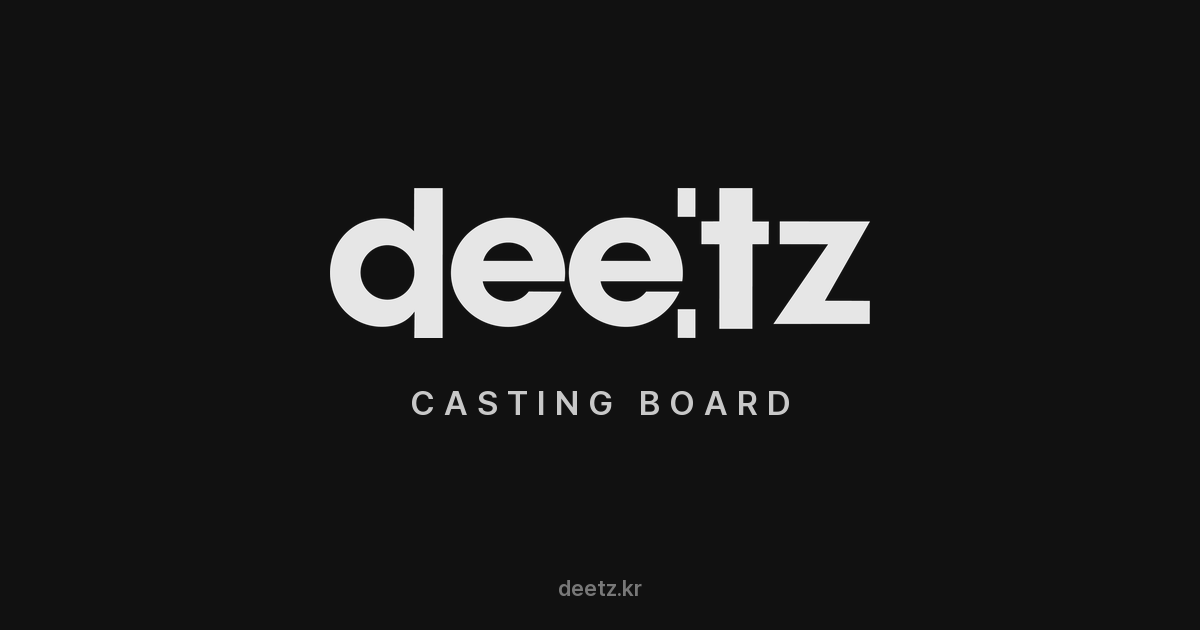
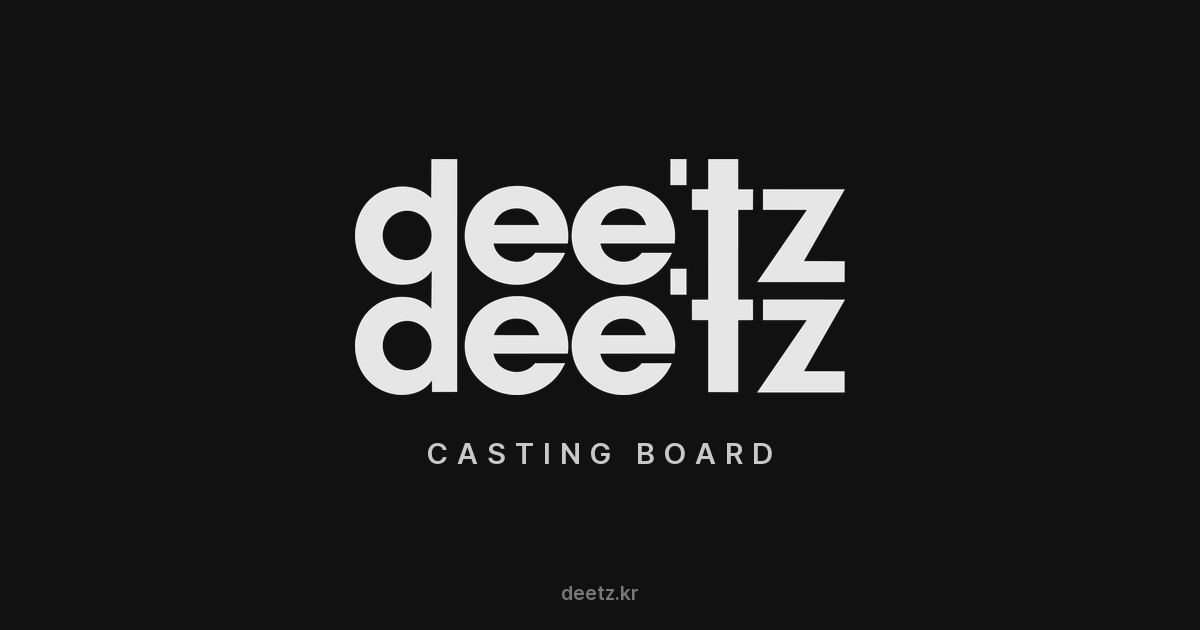
fix(casting): OG 이미지에 정식 2단 로고 사용, 공유 설명 'deetz 캐스팅보드' 고정 (#213)
deetz 로고는 dee'tz 2단 적층이 정식이라 OG 이미지를 원본 로고로 다시 만들되, 카카오톡 정사각 크롭(중앙 630px) 안에 여백을 두고 배치해 잘리지 않게 했다. 공유 설명은 인원 수가 계속 바뀌므로 'deetz 캐스팅보드' 고정 문구로 바꿨다(대표 지시).

Changed region(s): [[0.2775, 0.2413, 0.74, 0.6635], [0.3392, 0.6937, 0.6475, 0.754], [0.4625, 0.9048, 0.5242, 0.9651]]

diff --git a/src/lib/casting/board-meta.ts b/src/lib/casting/board-meta.ts
@@ -1,5 +1,4 @@
 import type { BoardView } from "@/lib/casting/board-data";
-import { LINEUP_STATUS_LABEL } from "@/lib/casting/forecast";
 
 // 공유 링크 미리보기(OG)용 제목·설명. 금액·아티스트명·연락처는 절대 넣지 않는다.
 export function shareTitleOf(board: BoardView | null, fallback = "캐스팅 보드"): string {
@@ -17,15 +16,7 @@ export const CASTING_BOARD_OG_IMAGE = {
   alt: "deetz casting board",
 } as const;
 
-export function shareDescriptionOf(board: BoardView | null): string {
-  const base = "deetz 캐스팅 보드";
-  if (!board) return base;
-  if (board.forecast) {
-    const { counts, settings } = board.forecast;
-    const parts = [`${LINEUP_STATUS_LABEL.confirmed} ${counts.confirmed}명`];
-    const candidates = counts.negotiating + counts.proposed;
-    if (candidates > 0) parts.push(`${settings.candidateLabel} ${candidates}명`);
-    return `${base} · ${parts.join(" · ")}`;
-  }
-  return `${base} · 총 ${board.counts.total}명`;
+export function shareDescriptionOf(): string {
+  // 인원 수는 계속 바뀌므로 미리보기 설명에는 넣지 않는다(대표 지시).
+  return "deetz 캐스팅보드";
 }

diff --git a/src/app/review/[token]/page.tsx b/src/app/review/[token]/page.tsx
@@ -21,7 +21,7 @@ export async function generateMetadata({
   const { token } = await params;
   const board = token ? await loadBoard(token) : null;
   const title = shareTitleOf(board, "클라이언트 검토 보드");
-  const description = shareDescriptionOf(board);
+  const description = shareDescriptionOf();
   const fullTitle = `${title} · deetz`;
   return {
     title,

diff --git a/src/app/cast/[code]/page.tsx b/src/app/cast/[code]/page.tsx
@@ -26,7 +26,7 @@ export async function generateMetadata({
   const { code } = await params;
   const board = code ? await loadBoard(code) : null;
   const title = shareTitleOf(board);
-  const description = shareDescriptionOf(board);
+  const description = shareDescriptionOf();
   const fullTitle = `${title} · deetz`;
   return {
     title,
